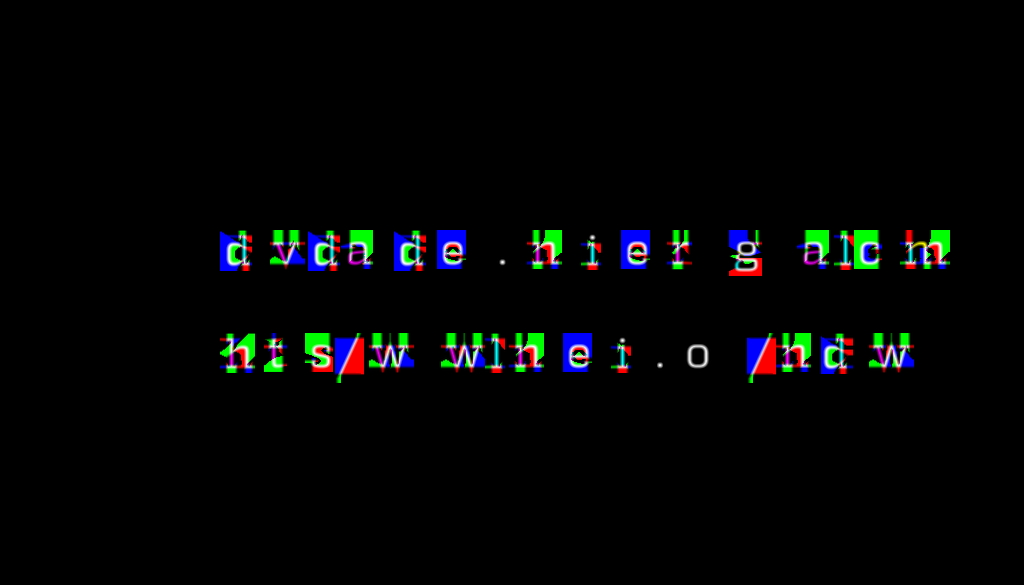
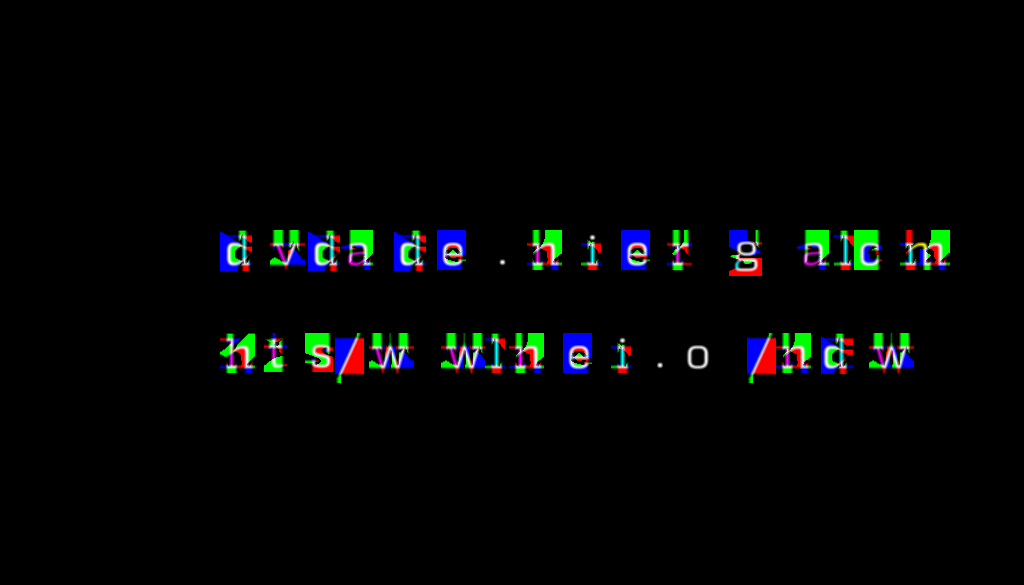
make contacts page show 3D business card

diff --git a/app/contact/page.tsx b/app/contact/page.tsx
@@ -6,7 +6,8 @@ const Page = () => {
     return (
         <>
             <div className="flex flex-col h-full">
-                <div className="w-full flex flex-row items-center justify-center flex-grow">
+                <iframe src="https://david-andrew.github.io/BusinessCard/" className="flex-grow" />
+                {/* <div className="w-full flex flex-row items-center justify-center flex-grow">
                     <div className="outline outline-white py-16 px-10 md:py-20 md:px-10 lg:py-36 lg:px-20">
                         <IconBulletList>
                             <IconBullet responsive icon="envelope">
@@ -25,8 +26,8 @@ const Page = () => {
                             </IconBullet>
                         </IconBulletList>
                     </div>
-                </div>
-                <NavbarDummy />
+                </div> */}
+                {/* <NavbarDummy /> */}
             </div>
         </>
     )

diff --git a/scripts/contact_renderer/render_msdf.py b/scripts/contact_renderer/render_msdf.py
@@ -109,6 +109,12 @@ def read_meta(font: FontName):
         for char in meta['chars']
     ]
 
+
+    # DEBUG add a slight y-offset to 'a' and 'n' to make them look better
+    for char in chars:
+        if char.ch in ['a', 'n', 'v', 'r', 'c', 'o', 'm', 'e', 'w']:
+            char.yoffset += 1.0
+
     # create a map from each letter to the corresponding Char/Kerning object
     char_map = {char.ch: char for char in chars}
     kerning_map = {(kerning.first, kerning.second): kerning for kerning in kernings}
